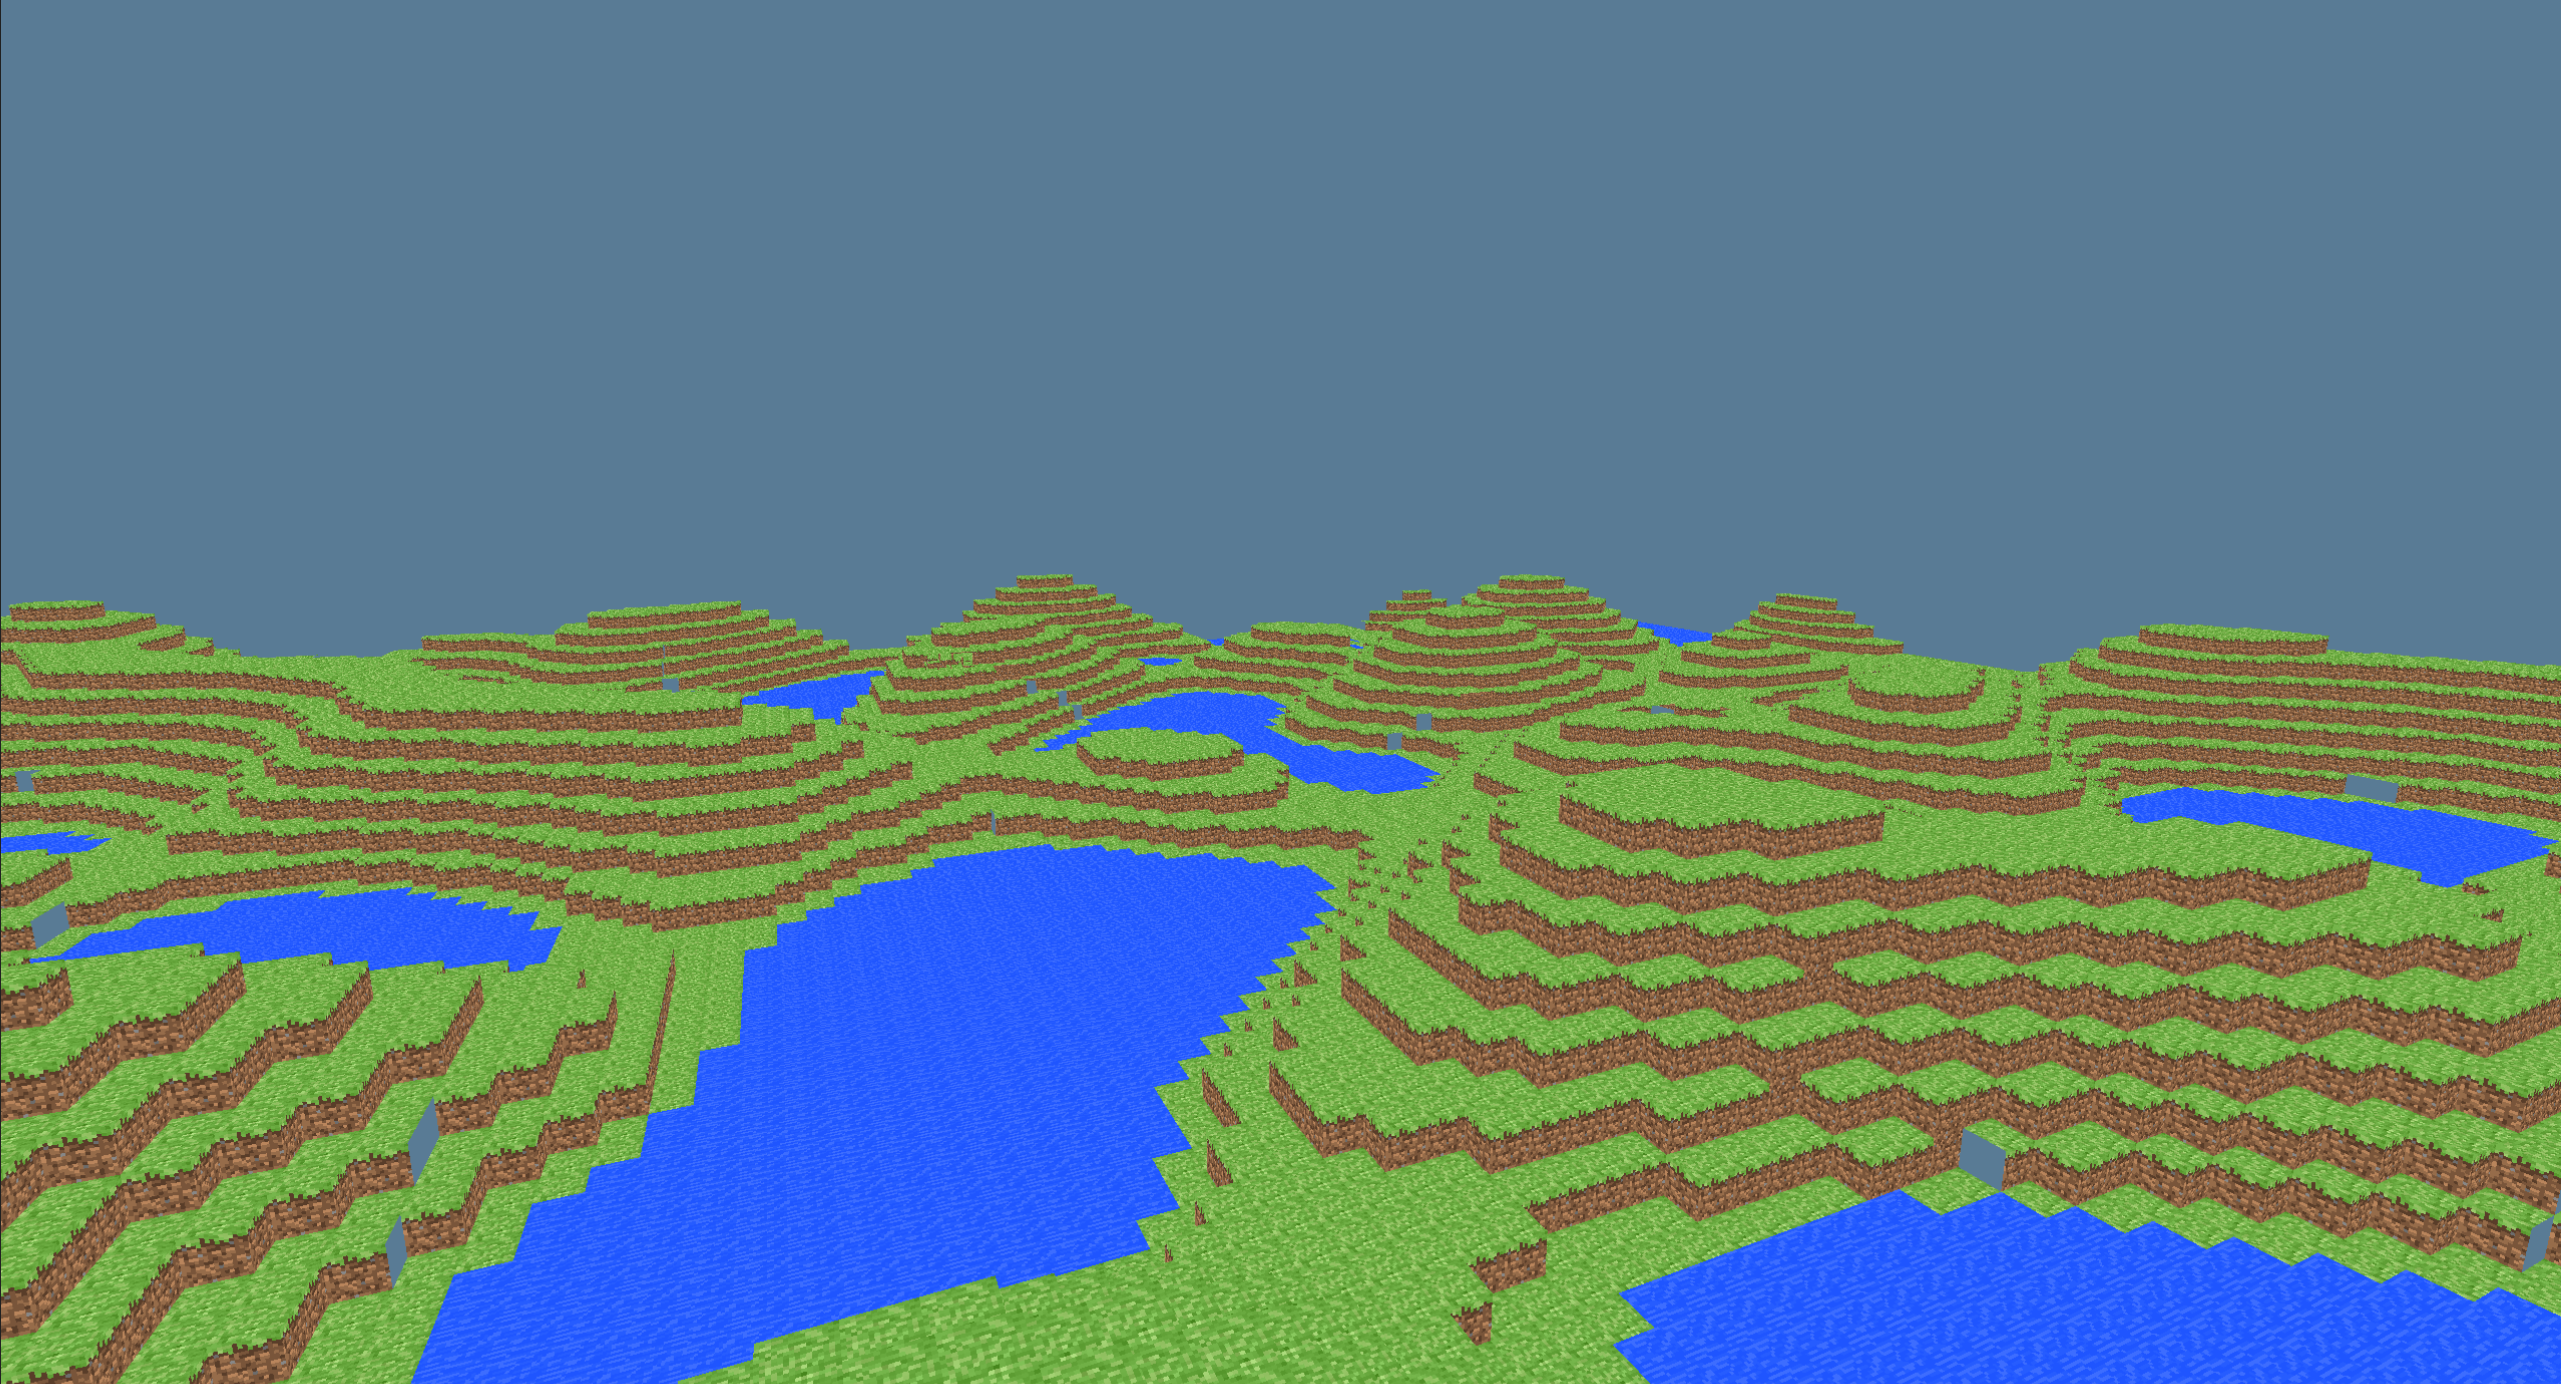
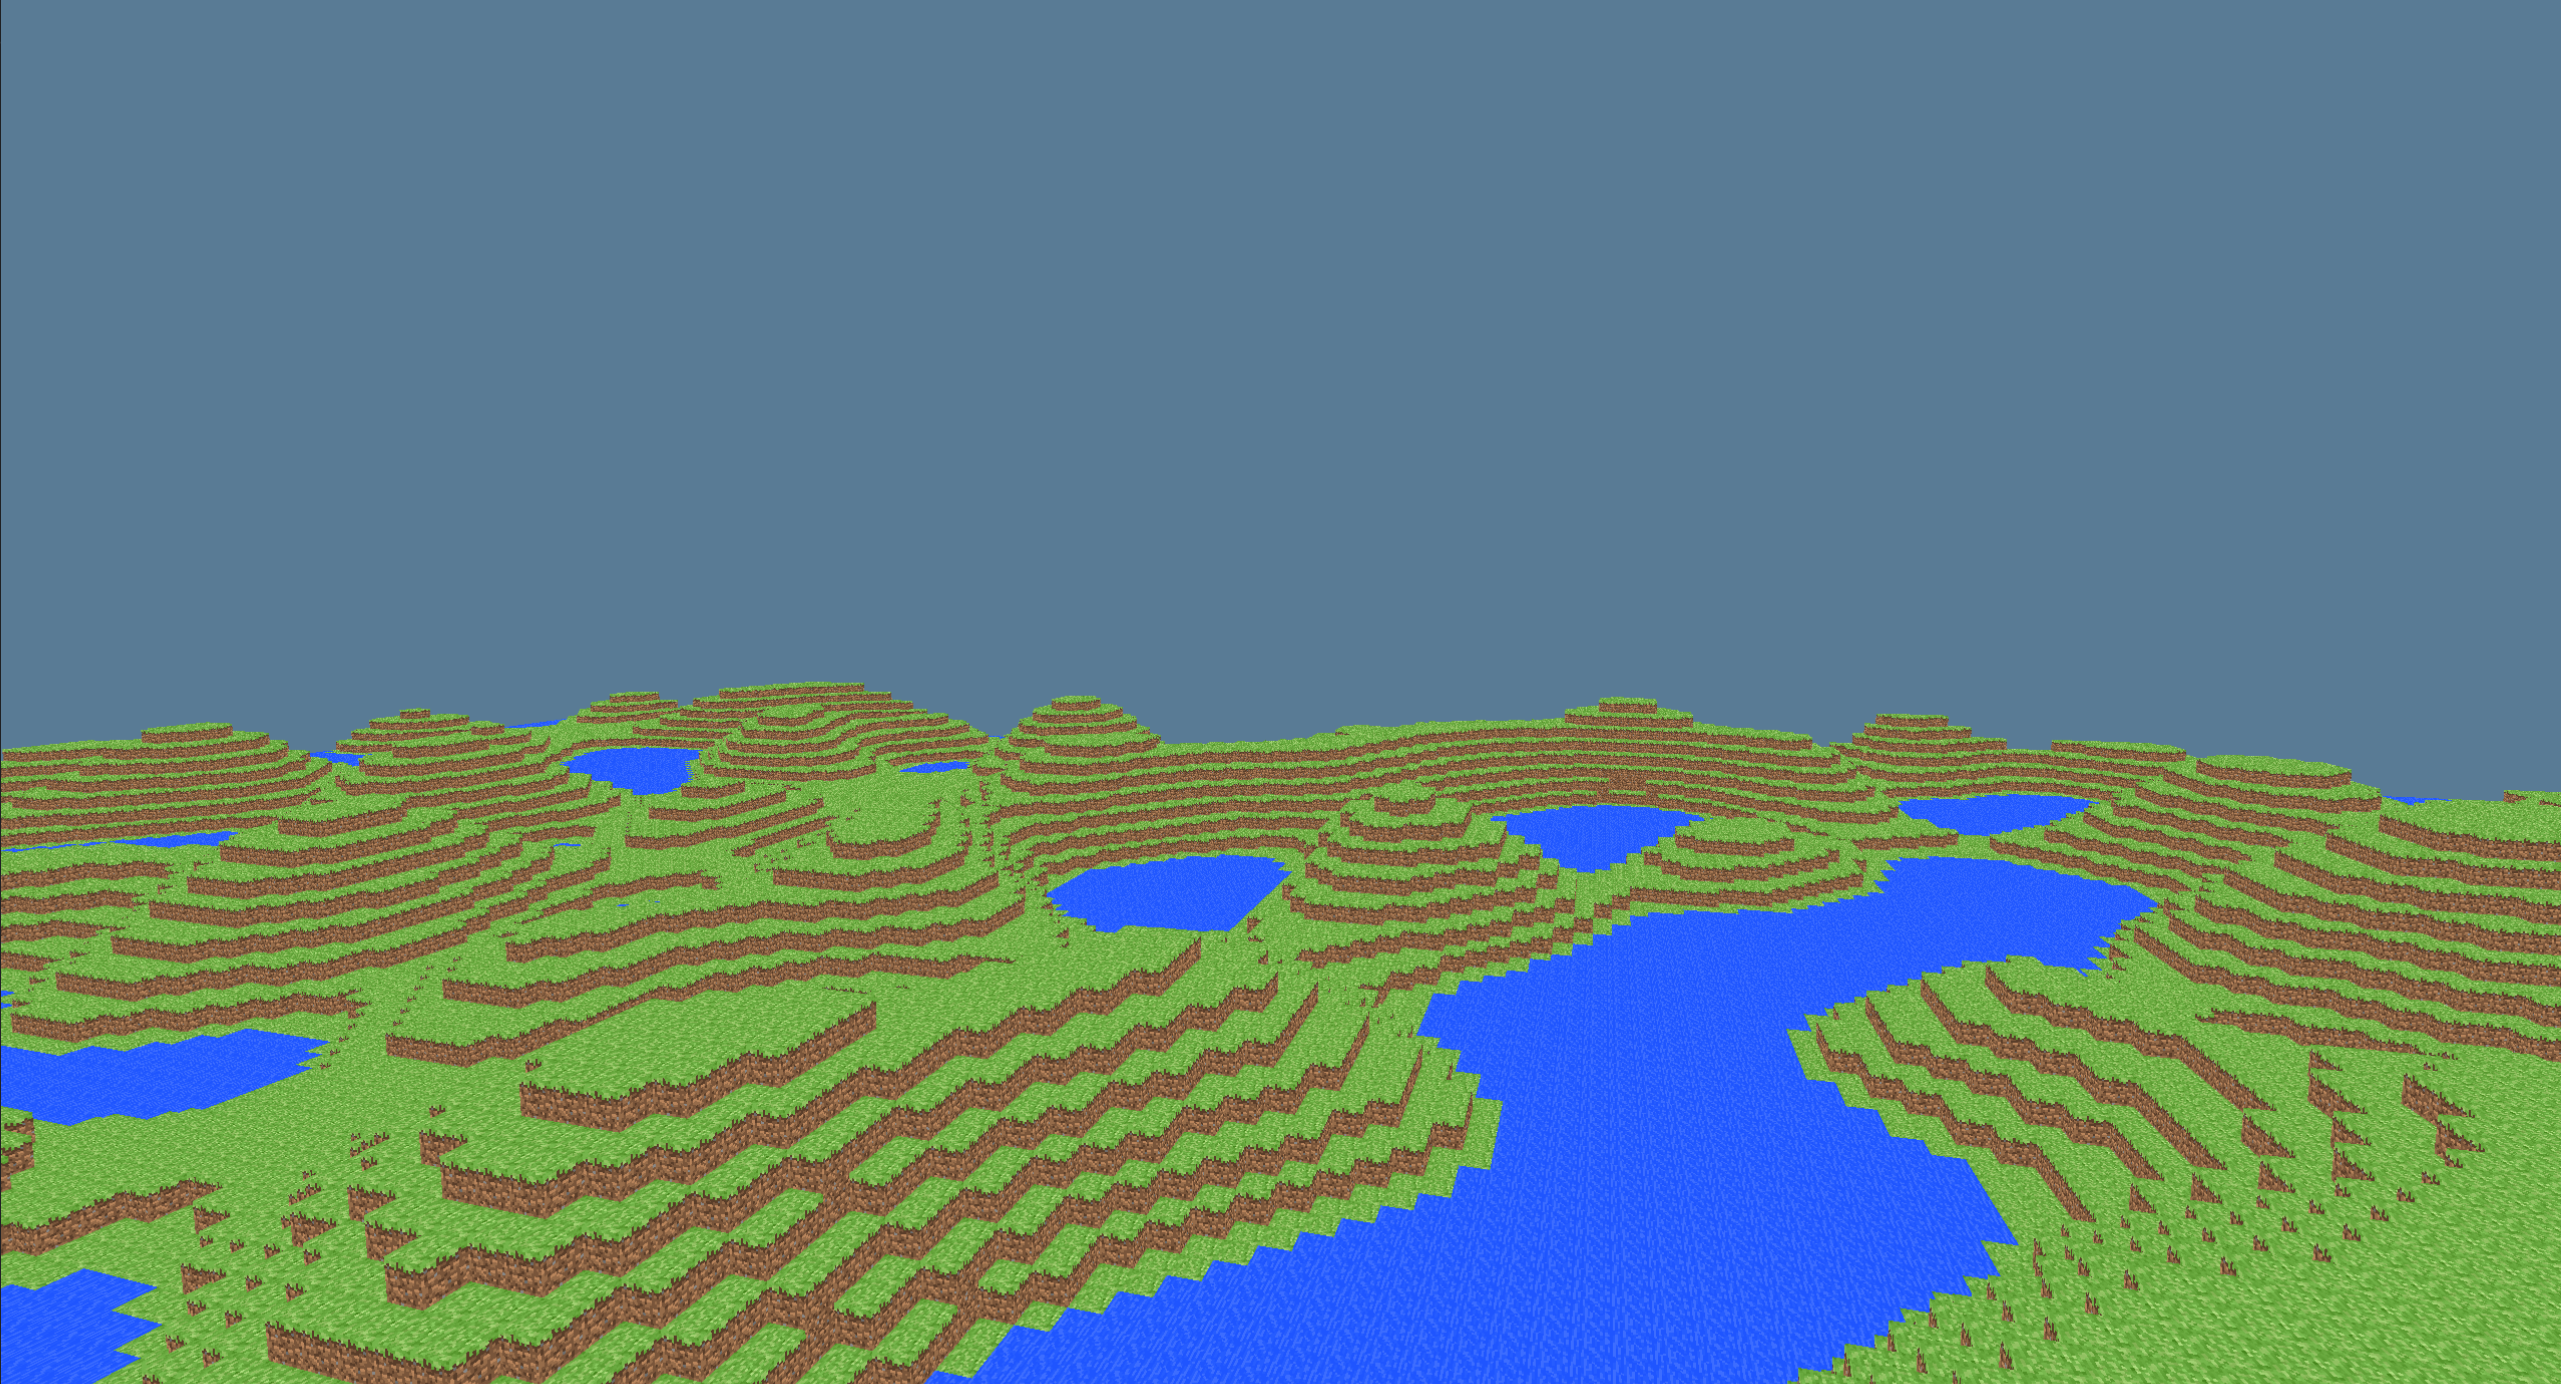
correct world gen

diff --git a/src/world/world.rs b/src/world/world.rs
@@ -1,10 +1,8 @@
 
-use crate::{render::renderer::Renderer, world::biomes::{BiomeParameters, PRAIRIE_PARAMS}};
+use std::{collections::VecDeque, sync::{Arc, RwLock, Barrier}};
+use rayon::ThreadPoolBuilder;
 
-
-use std::{collections::VecDeque, sync::{Arc, RwLock}};
-
-use crate::render::{atlas::{Atlas, MaterialType}, mesh::Mesh, model::DynamicModel, pipelines::terrain::{BlockVertex, TerrainPipeline}, renderer::Draw};
+use crate::{render::{atlas::{Atlas, MaterialType}, mesh::Mesh, model::DynamicModel, pipelines::terrain::{BlockVertex, TerrainPipeline}, renderer::{Draw, Renderer}}, world::biomes::PRAIRIE_PARAMS};
 use crate::render::pipelines::GlobalsLayouts;
 use crate::world::chunk::{self, generate_chunk, Blocks, ChunkArray, CHUNK_AREA, CHUNK_Y_SIZE};
 
@@ -16,7 +14,7 @@ use wgpu::Queue;
 
 
 pub const LAND_LEVEL: usize = 9;
-pub const CHUNKS_VIEW_SIZE: usize = 12;
+pub const CHUNKS_VIEW_SIZE: usize = 16;
 pub const CHUNKS_ARRAY_SIZE: usize = CHUNKS_VIEW_SIZE * CHUNKS_VIEW_SIZE;
 
 use std::sync::atomic::{AtomicUsize, Ordering};
@@ -42,7 +40,7 @@ pub struct World {
     pub chunks: ChunkArray,
     chunk_indices: Arc<RwLock<[Option<usize>; CHUNKS_ARRAY_SIZE]>>,
     free_chunk_indices: Arc<RwLock<VecDeque<usize>>>,
-    //updated_indices: Arc<RwLock<[bool; CHUNKS_ARRAY_SIZE]>>,
+    updated_indices: Arc<RwLock<[bool; CHUNKS_ARRAY_SIZE]>>,
     center_offset: Vector3<i32>,
     chunks_origin: Vector3<i32>,
     chunk_models: Vec<DynamicModel<BlockVertex>>
@@ -58,7 +56,7 @@ impl World {
         let mut chunk_models = vec![];
         let mut chunks:ChunkArray = ChunkArray::default();
         let chunk_indices: [Option<usize>; CHUNKS_ARRAY_SIZE] = [None; CHUNKS_ARRAY_SIZE];
-        //let updated_indices = Arc::new(RwLock::new([false; CHUNKS_ARRAY_SIZE]));
+        let updated_indices = Arc::new(RwLock::new([false; CHUNKS_ARRAY_SIZE]));
         let mut free_chunk_indices = VecDeque::new();
 
 
@@ -79,7 +77,7 @@ impl World {
         );
 
 
-        let world_pipeline = TerrainPipeline::new(
+        let World_pipeline = TerrainPipeline::new(
             &renderer.device,
             &global_layouts,
             shader,
@@ -91,27 +89,82 @@ impl World {
         let chunks_origin = center_offset - Vector3::new(CHUNKS_VIEW_SIZE as i32 / 2, 0, CHUNKS_VIEW_SIZE as i32 / 2);
 
 
-        let mut world = Self {
-            pipeline: world_pipeline.pipeline,
+        let mut World = Self {
+            pipeline: World_pipeline.pipeline,
             atlas,
             chunks,
             chunk_models,
             center_offset,
             chunks_origin,
-            //updated_indices,
+            updated_indices,
             chunk_indices: Arc::new(RwLock::new(chunk_indices)),
             free_chunk_indices: Arc::new(RwLock::new(free_chunk_indices))
         };
 
 
         println!("about to load first chunks");
-        world.load_empty_chunks(&renderer.queue);
+        World.load_initial_chunks(&renderer.queue);
 
 
-        world
+        World
     }
 
 
+
+
+
+
+    pub fn load_initial_chunks(&mut self, queue: &Queue) {
+        let chunks_to_update: Vec<usize> = (0..CHUNKS_ARRAY_SIZE)
+            .filter(|&i| self.chunk_indices.read().unwrap()[i].is_none())
+            .collect();
+
+        // Primer bucle: Generar los chunks
+        for i in chunks_to_update.iter() {
+            let new_index = self.free_chunk_indices.write().unwrap().pop_front();
+            if let Some(new_index) = new_index {
+                let chunk_offset = self.get_chunk_offset(*i);
+                if !self.chunk_in_bounds(chunk_offset) {
+                    panic!("Error: Cannot load chunk");
+                }
+                
+                *self.chunks.offset_array[new_index].write().unwrap() = chunk_offset.into();
+                
+                generate_chunk(
+                    &mut self.chunks.blocks_array[new_index].write().unwrap(),
+                    chunk_offset.into(),
+                    10,
+                    &PRAIRIE_PARAMS
+                );
+
+                self.chunk_indices.write().unwrap()[*i] = Some(new_index);
+            } else {
+                panic!("Error: No free space for chunk");
+            }
+        }
+
+        // Segundo bucle: Calcular los meshes
+        for i in chunks_to_update.iter() {
+            if let Some(new_index) = self.chunk_indices.read().unwrap()[*i] {
+                let chunk_offset = self.get_chunk_offset(*i);
+                let mesh = self.update_mesh(
+                    &self.chunks.blocks_array[new_index].read().unwrap(),
+                    0,
+                    0,
+                    chunk_offset,
+                );
+                *self.chunks.mesh_array[new_index].write().unwrap() = mesh;
+            }
+        }
+
+        // Actualizar los modelos de chunk
+        (0..CHUNKS_ARRAY_SIZE).for_each(|i| {
+            //self.chunk_models[i].update(queue, &self.chunks[i].read().unwrap().mesh, 0);
+            self.chunk_models[i].update(queue, &self.chunks.mesh_array[i].read().unwrap(), 0);
+        });
+
+        println!("---------------------------------");
+    }
 
 
 
@@ -190,7 +243,6 @@ impl World {
 
 
 
-
     pub fn update_mesh(&self, blocks: &Blocks, index: usize, thread_id:usize, chunk_offset:Vector3<i32>) -> Mesh<BlockVertex> {
 
 
@@ -265,7 +317,7 @@ impl World {
     }
 
     // Get the block from a neighboring chunk, if it exists.
-    fn get_block_from_neighboring_chunk(&self, neighbor_pos: Vector3<i32>, _index: usize, thread_id:usize, chunk_offset_orig:Vector3<i32>) -> Option<MaterialType> {
+    fn get_block_from_neighboring_chunk(&self, neighbor_pos: Vector3<i32>, indexss: usize, thread_id:usize, chunk_offset_orig:Vector3<i32>) -> Option<MaterialType> {
         //println!("out of bounds condition  | at thread: {:?}", thread_id);
 
         
@@ -400,10 +452,10 @@ impl World {
         self.load_empty_chunks(queue);
     }
 
-    // fn is_inner_chunk(&self, chunk_offset: Vector3<i32>) -> bool {
-    //     let p = chunk_offset - self.chunks_origin;
-    //     p.x > 0 && p.z > 0 && p.x < (CHUNKS_VIEW_SIZE as i32 - 1) && p.z < (CHUNKS_VIEW_SIZE as i32 - 1)
-    // }
+    fn is_inner_chunk(&self, chunk_offset: Vector3<i32>) -> bool {
+        let p = chunk_offset - self.chunks_origin;
+        p.x > 0 && p.z > 0 && p.x < (CHUNKS_VIEW_SIZE as i32 - 1) && p.z < (CHUNKS_VIEW_SIZE as i32 - 1)
+    }
 
 
 
